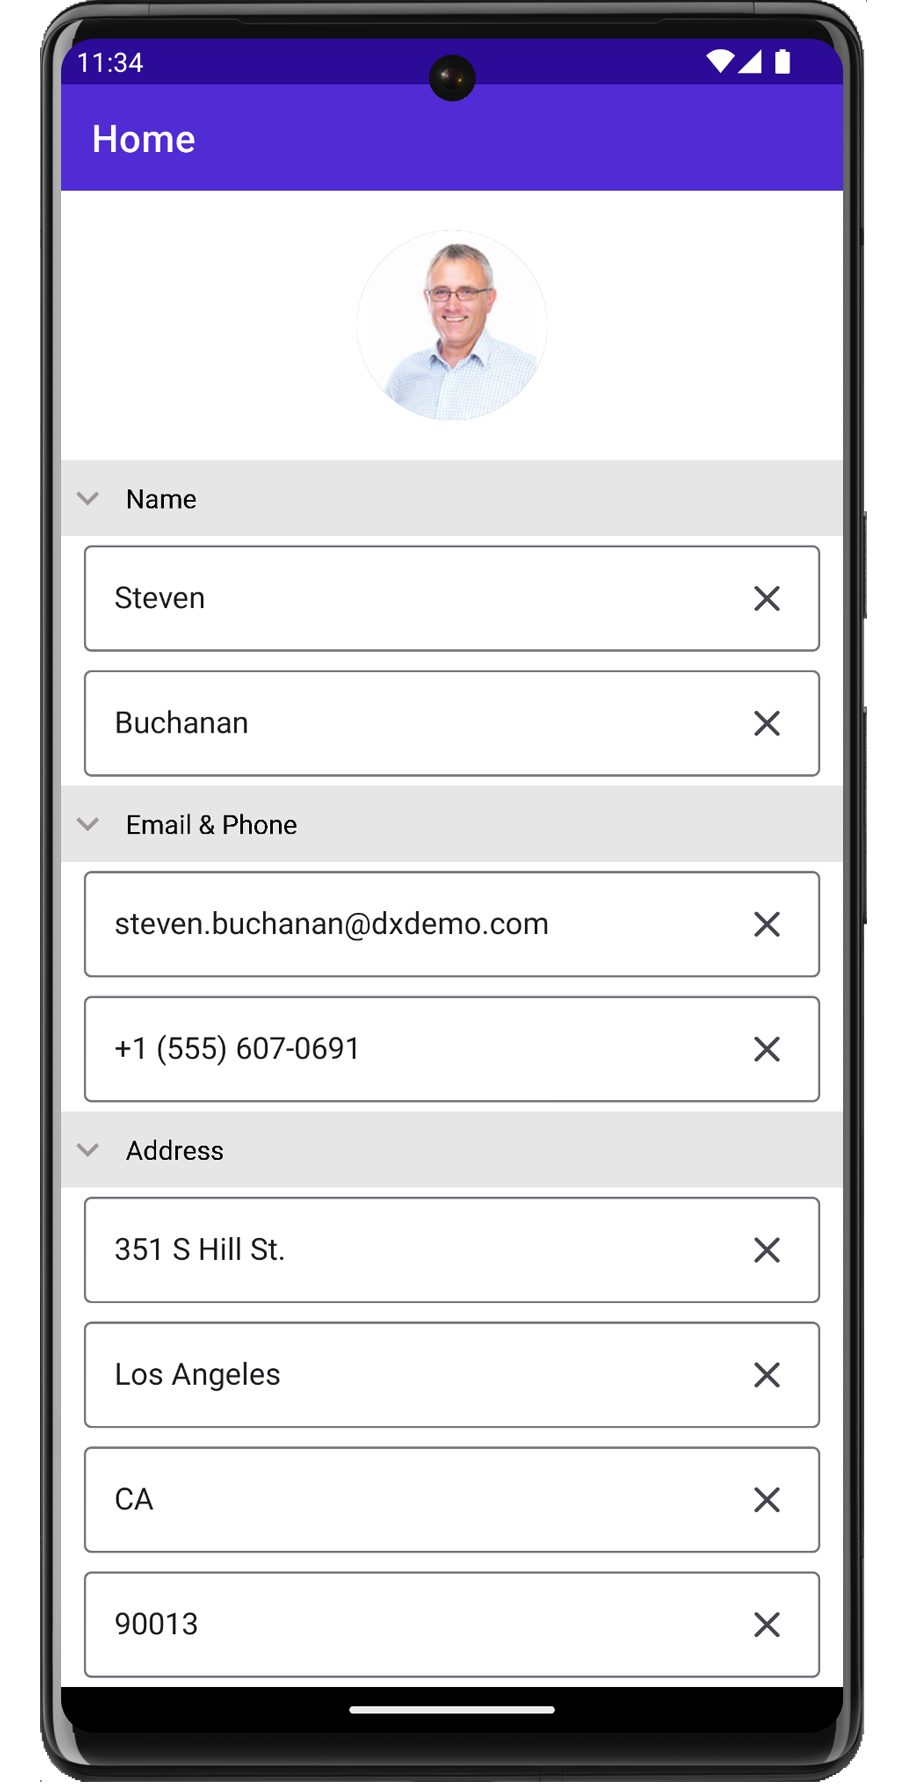
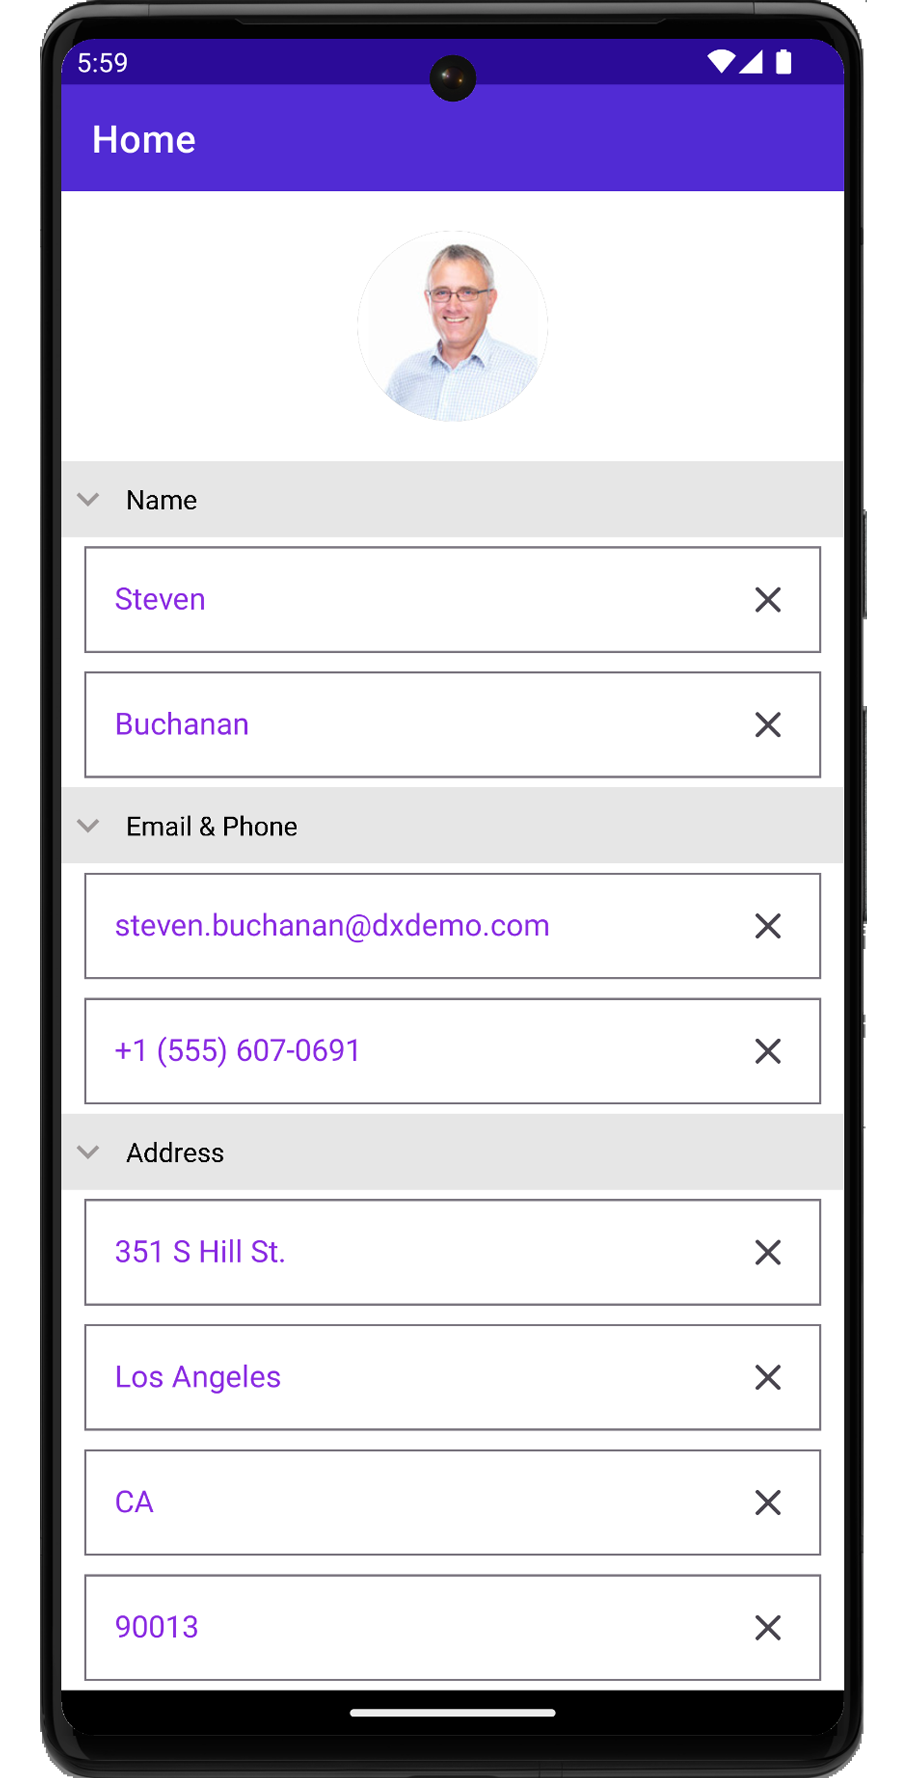
Readme updated

diff --git a/CS/CustomAppearance/MainPage.xaml b/CS/CustomAppearance/MainPage.xaml
@@ -2,22 +2,15 @@
 <ContentPage xmlns="http://schemas.microsoft.com/dotnet/2021/maui"
              xmlns:x="http://schemas.microsoft.com/winfx/2009/xaml"
              xmlns:dxdf="clr-namespace:DevExpress.Maui.DataForm;assembly=DevExpress.Maui.Editors"
+             xmlns:dxe="clr-namespace:DevExpress.Maui.Editors;assembly=DevExpress.Maui.Editors"
              xmlns:dxco="clr-namespace:DevExpress.Maui.Controls;assembly=DevExpress.Maui.Controls"
              xmlns:dxc="clr-namespace:DevExpress.Maui.Core;assembly=DevExpress.Maui.Core"
              x:Class="CustomAppearance.MainPage">
-
     <ContentPage.Resources>
-        <CornerRadius x:Key="DXEditBaseCornerRadius">0</CornerRadius>
-        <Thickness x:Key="DXEditBaseBoxPadding">0</Thickness>
-        <x:Double x:Key="DXEditBaseBoxMinHeight">41</x:Double>
-        <x:Double x:Key="DXEditBaseBorderThickness">0</x:Double>
-        <x:Double x:Key="DXEditBaseFocusedBorderThickness">0</x:Double>
-        <Color x:Key="DXEditBaseBorderColor">Transparent</Color>
-        <Color x:Key="DXEditBaseFocusedBorderColor">Transparent</Color>
-        <Color x:Key="DXEditBaseFilledBackgroundColor">Transparent</Color>
-        <Color x:Key="DXEditBasePlaceholderColor">#9f9f9f</Color>
-        <Color x:Key="DXEditBaseTextColor">#545454</Color>
-        <dxc:IconVisibility x:Key="DXTextEditBaseClearIconVisibility">Never</dxc:IconVisibility>
+        <Style TargetType="dxe:EditBase" ApplyToDerivedTypes="True">
+            <Setter Property="CornerRadius" Value="0"/>
+            <Setter Property="TextColor" Value="BlueViolet"/>
+        </Style>
     </ContentPage.Resources>
 
     <dxdf:DataFormView x:Name="dataForm"

diff --git a/CS/ComboBoxEditor/Readme.md b/CS/ComboBoxEditor/Readme.md
@@ -1,0 +1,37 @@
+# DevExpress Data Form for .NET MAUI - Add a ComboBoxEdit
+
+This example shows how to display a [ComboBoxEdit](https://docs.devexpress.com/Maui/DevExpress.Maui.Editors.ComboBoxEdit) in the [DataFormView](https://docs.devexpress.com/Maui/DevExpress.Maui.DataForm.DataFormView) control.
+
+The [DataFormView](https://docs.devexpress.com/Maui/DevExpress.Maui.DataForm.DataFormView) generates [ComboBoxEdit](https://docs.devexpress.com/Maui/DevExpress.Maui.Editors.ComboBoxEdit) editors for the underlying data object's properties of the *enum* type. You can also bind a combo box editor to a collection that stores objects of any type - for example, primitive types (strings, integers, etc.) or custom objects. 
+
+<img src="../../Images/data-form-combobox-iphone.png" alt="DevExpress Data Form for iOS" height="700"/> <img src="../../Images/data-form-combobox-android.png" alt="DevExpress Data Form for Android" height="700"/>
+
+
+To specify an item source for the data form's combo box editor, follow the steps below:
+
+1. Create a class that implements the [](https://docs.devexpress.com/Maui/DevExpress.Maui.DataForm.IPickerSourceProvider) interface. An instance of this class (*ComboBoxDataProvider*, in this example) serves as the data source for all combo box editors within the data form. 
+2. Override the [GetSource](https://docs.devexpress.com/Maui/DevExpress.Maui.DataForm.IPickerSourceProvider.GetSource(System.String)) method so that it returns an item source for a combo box based on the data object property to which the editor is bound.
+3. Set the [DataFormView.PickerSourceProvider](https://docs.devexpress.com/Maui/DevExpress.Maui.DataForm.DataFormView.PickerSourceProvider) property to a *ComboBoxDataProvider* class instance.
+4. Use the [](https://docs.devexpress.com/Maui/DevExpress.Maui.DataForm.DataFormComboBoxEditorAttribute) attribute to assign a combo box editor to the data object's property.   
+In this example, the data form is bound to the *EmployeeInfo* object and uses combo box editors for the following properties of this object:
+    - *Department*  
+    The data provider's `GetSource` method returns a list of `DepartmentInfo` objects that serve as the data source for the drop-down item list of the **Department** combo box. Use the [ValueMember](https://docs.devexpress.com/Maui/DevExpress.Maui.DataForm.DataFormComboBoxEditorAttribute.ValueMember) and [](https://docs.devexpress.com/Maui/DevExpress.Maui.DataForm.DataFormComboBoxEditorAttribute.DisplayMember) parameters to specify data source field names that supply item values (integer values that define department codes) and display strings (department names), respectively.
+    - *Status*  
+    The data provider's `GetSource` method returns a list of strings that are displayed as items within the **Status** combo box and used to set the data object's *Status* property value.
+
+## Files to Review
+
+* [MainPage.xaml](MainPage.xaml)
+* [MainPage.xaml.cs](MainPage.xaml.cs)
+
+## Documentation
+
+* [Customize .NET MAUI Control Appearance](https://docs.devexpress.com/MAUI/404147/customize-appearance)
+* [DataFormView class - Appearance Properties](https://docs.devexpress.com/MAUI/DevExpress.Maui.DataForm.DataFormView#data-form-views-items)
+
+## More Examples
+
+* [Get Started with the DataForm](../DataFormGetStarted)
+* [Customize a DataFrom Appearance](../CustomAppearance)
+* [Add/Remove Data Editors at Runtime](../AddingDataEditorsAtRuntime)
+

diff --git a/CS/DataFormGetStarted/Readme.md b/CS/DataFormGetStarted/Readme.md
@@ -1,0 +1,24 @@
+# DevExpress Data Form for .NET MAUI - Get Started
+
+The following topic describes how to get started with the DataForm Control for .NET MAUI.
+
+<img src="../../Images/data-form-example-iphone.png" alt="DevExpress Data Form for iOS" height="700"/> <img src="../../Images/data-form-example-pixel.png" alt="DevExpress Data Form for Android" height="700"/>
+
+You can also refer to the following YouTube video for instructions on how to get started with the Data Form Control: [Adding a Data Form to Your .NET MAUI App](https://www.youtube.com/watch?v=imUCmru5Lwc&ab_channel=DevExpress).
+
+## Files to Review
+
+* [MainPage.xaml](MainPage.xaml)
+* [MainPage.xaml.cs](MainPage.xaml.cs)
+
+## Documentation
+
+* [Get Started with DevExpress Data Form for .NET MAUI](https://docs.devexpress.com/MAUI/403647/data-form/get-started)
+* [DataForm.DataFormView](https://docs.devexpress.com/MAUI/DevExpress.Maui.DataForm.DataFormView)
+
+## More Examples
+
+* [Display a ComboBoxEdit in the DataForm](../ComboBoxEditor)
+* [Customize a DataFrom Appearance](../CustomAppearance)
+* [Add/Remove Data Editors at Runtime](../AddingDataEditorsAtRuntime)
+

diff --git a/CS/AddingDataEditorsAtRuntime/Readme.md b/CS/AddingDataEditorsAtRuntime/Readme.md
@@ -1,0 +1,21 @@
+# DataForm for .NET MAUI - Add/Remove Data Editors at Runtime
+
+This example demonstrates how to add editors to a data form at runtime. It adds a [DataFormTextItem](https://docs.devexpress.com/MAUI/DevExpress.Maui.DataForm.DataFormTextItem) object to the data form's [Items](https://docs.devexpress.com/MAUI/DevExpress.Maui.DataForm.DataFormView.Items) collection when a user taps the **Add Editor** button. To remove the last item from the collection, click the **Remove Editor** button.
+
+
+<img src="../../Images/data-form-runtime-iphone.png" alt="DevExpress Data Form for iOS" height="700"/> <img src="../../Images/data-form-runtime-android.png" alt="DevExpress Data Form for Android" height="700"/>
+
+## Files to Review
+
+* [MainPage.xaml](MainPage.xaml)
+* [MainPage.xaml.cs](MainPage.xaml.cs)
+
+## Documentation
+
+[DataFormView.Items](https://docs.devexpress.com/MAUI/DevExpress.Maui.DataForm.DataFormView.Items)
+
+## More Examples
+
+* [Get Started with the DataForm](../DataFormGetStarted)
+* [Customize a DataFrom Appearance](../CustomAppearance)
+* [Display a ComboBoxEdit in the DataForm](../ComboBoxEditor)

diff --git a/CS/CustomAppearance/Readme.md b/CS/CustomAppearance/Readme.md
@@ -1,0 +1,23 @@
+# DevExpress Data Form for .NET MAUI - Customize Appearance
+
+This example describes how to customze the appearance of the Data Form and its items.
+
+You can customize the data form's appearance in the following ways:
+- Use [implicit styles](#implicit-styles) to modify the appearance of all data form and editor instances that use these resources. 
+- Use [DataFormView](https://docs.devexpress.com/Maui/DevExpress.Maui.DataForm.DataFormView) object properties to customize a specific data form instance.
+
+
+<img src="../../Images/data-form-custom-appearance-iphone.png" alt="DevExpress Data Form for iOS" height="700"/> <img src="../../Images/data-form-custom-appearance-android.png" alt="DevExpress Data Form for Android" height="700"/>
+
+## Files to Review
+
+* [MainPage.xaml](MainPage.xaml)
+* [MainPage.xaml.cs](MainPage.xaml.cs)
+* [EmployeeInfo.cs](EmployeeInfo.cs)
+
+## More Examples
+
+* [Get Started with the DataForm](../DataFormGetStarted)
+* [Display a ComboBoxEdit in the DataForm](../ComboBoxEditor)
+* [Add/Remove Data Editors at Runtime](../AddingDataEditorsAtRuntime)
+
